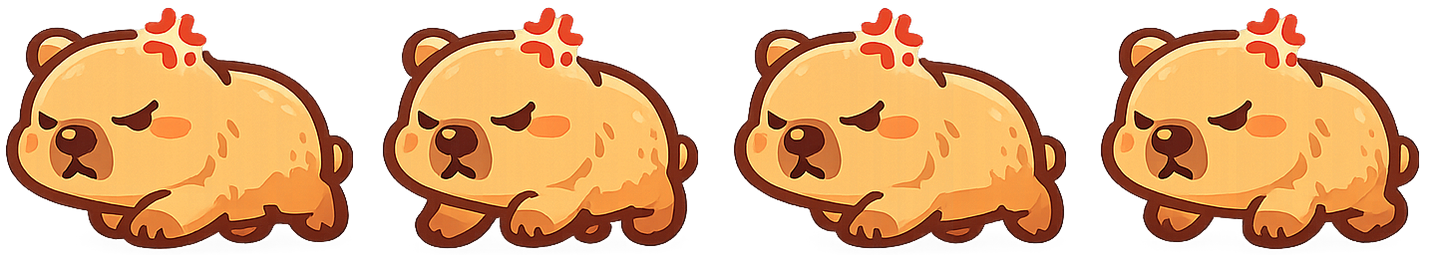
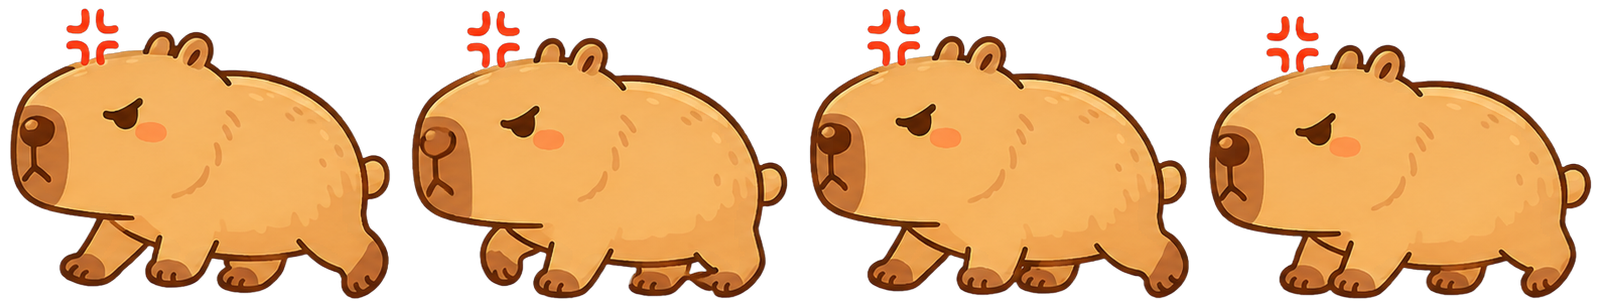
New angry walk sprite matching the updated art style
Replaces the old chibi angry strip with the new four-frame walk that
matches the sleeping capy's art style (same proportions and outline
weight, anger mark intact). Source had real transparency, so this was
a straight per-frame alpha-bbox cut, bottom-aligned into uniform
400x307 frames (~450 KB strip). Still faces left natively, so the
flip normalization is unchanged; SHEETS.walking dims updated, which
also makes the naughty and nice sprites near-identical in size.

diff --git a/src/Capybara.tsx b/src/Capybara.tsx
@@ -21,7 +21,7 @@ export const CAPY_ASPECT = CAPY_SRC_W / CAPY_SRC_H;
 // size from the cropped strips. facesRight notes the native direction
 // of the art so flipX can be normalized.
 const SHEETS = {
-  walking: { img: capyWalkImg, frames: 4, w: 360, h: 261, facesRight: false },
+  walking: { img: capyWalkImg, frames: 4, w: 400, h: 307, facesRight: false },
   cheering: { img: capyCheerImg, frames: 4, w: 400, h: 308, facesRight: true },
 } as const;
 